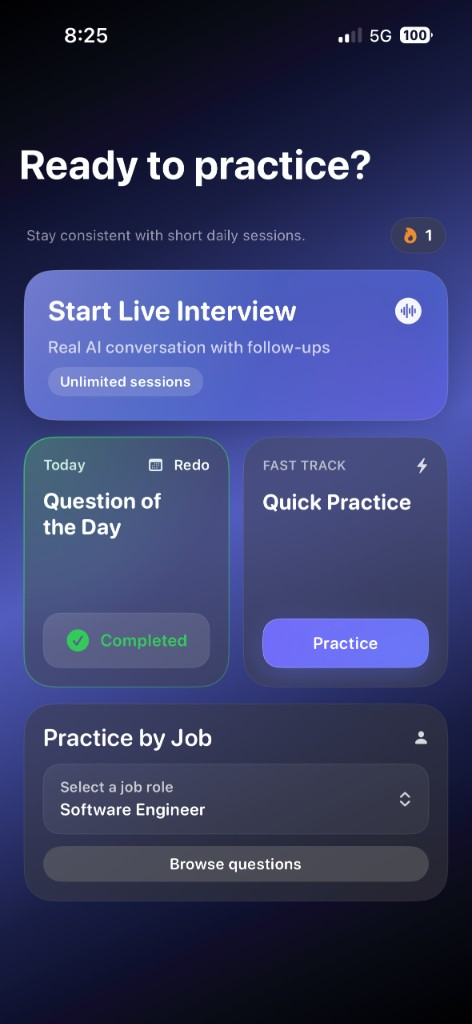
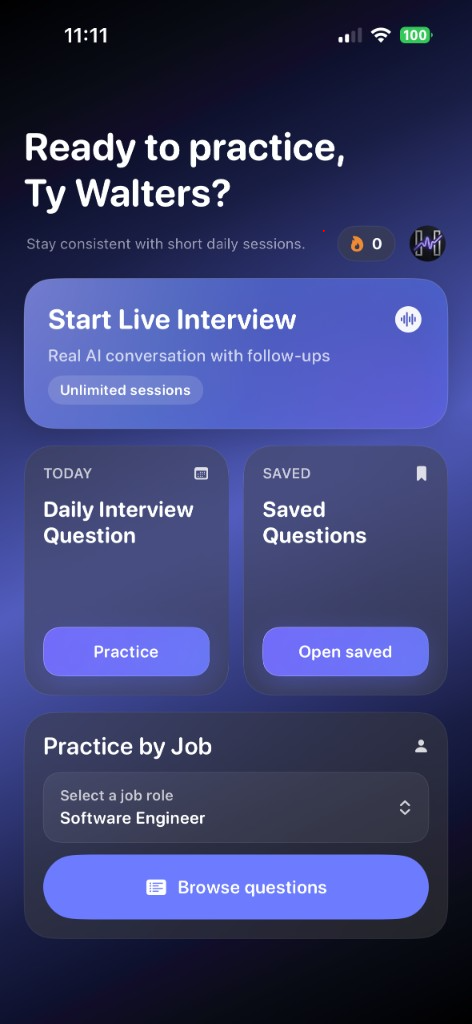
Add files via upload

diff --git a/index.html b/index.html
@@ -3,6 +3,7 @@
 <head>
   <meta charset="UTF-8" />
   <meta name="viewport" content="width=device-width,initial-scale=1" />
+  <meta name="tiktok-developers-site-verification" content="7636112679883194375" />
   <title>HireMind | Interview practice that builds confidence</title>
   <meta name="description" content="Live AI voice mock interviews, role-specific practice, coaching feedback, and unlimited sessions." />
   <meta property="og:title" content="HireMind | Interview practice that builds confidence" />
@@ -58,7 +59,7 @@
         </div>
         <div class="hero-shot">
           <div class="phone-frame phone-frame-hero">
-            <img src="public/screenshots/home.png" alt="HireMind app home screen" />
+            <img src="public/screenshots/home.png?v=2" alt="HireMind app home screen showing personalized greeting, live interview, daily question, saved questions, and practice by job" />
           </div>
         </div>
       </div>
@@ -185,10 +186,10 @@
         </div>
         <div class="shots">
           <div class="phone-frame phone-frame-small">
-            <img src="public/screenshots/live-interview.png" alt="Live interview screen" />
+            <img src="public/screenshots/live-interview.png?v=2" alt="Live interview voice mode with question prompt and ready for your response" />
           </div>
           <div class="phone-frame phone-frame-small">
-            <img src="public/screenshots/quick-practice.png" alt="Quick practice screen" />
+            <img src="public/screenshots/quick-practice.png?v=2" alt="Live interview while listening with voice waveform and Done Answering control" />
           </div>
         </div>
       </div>
